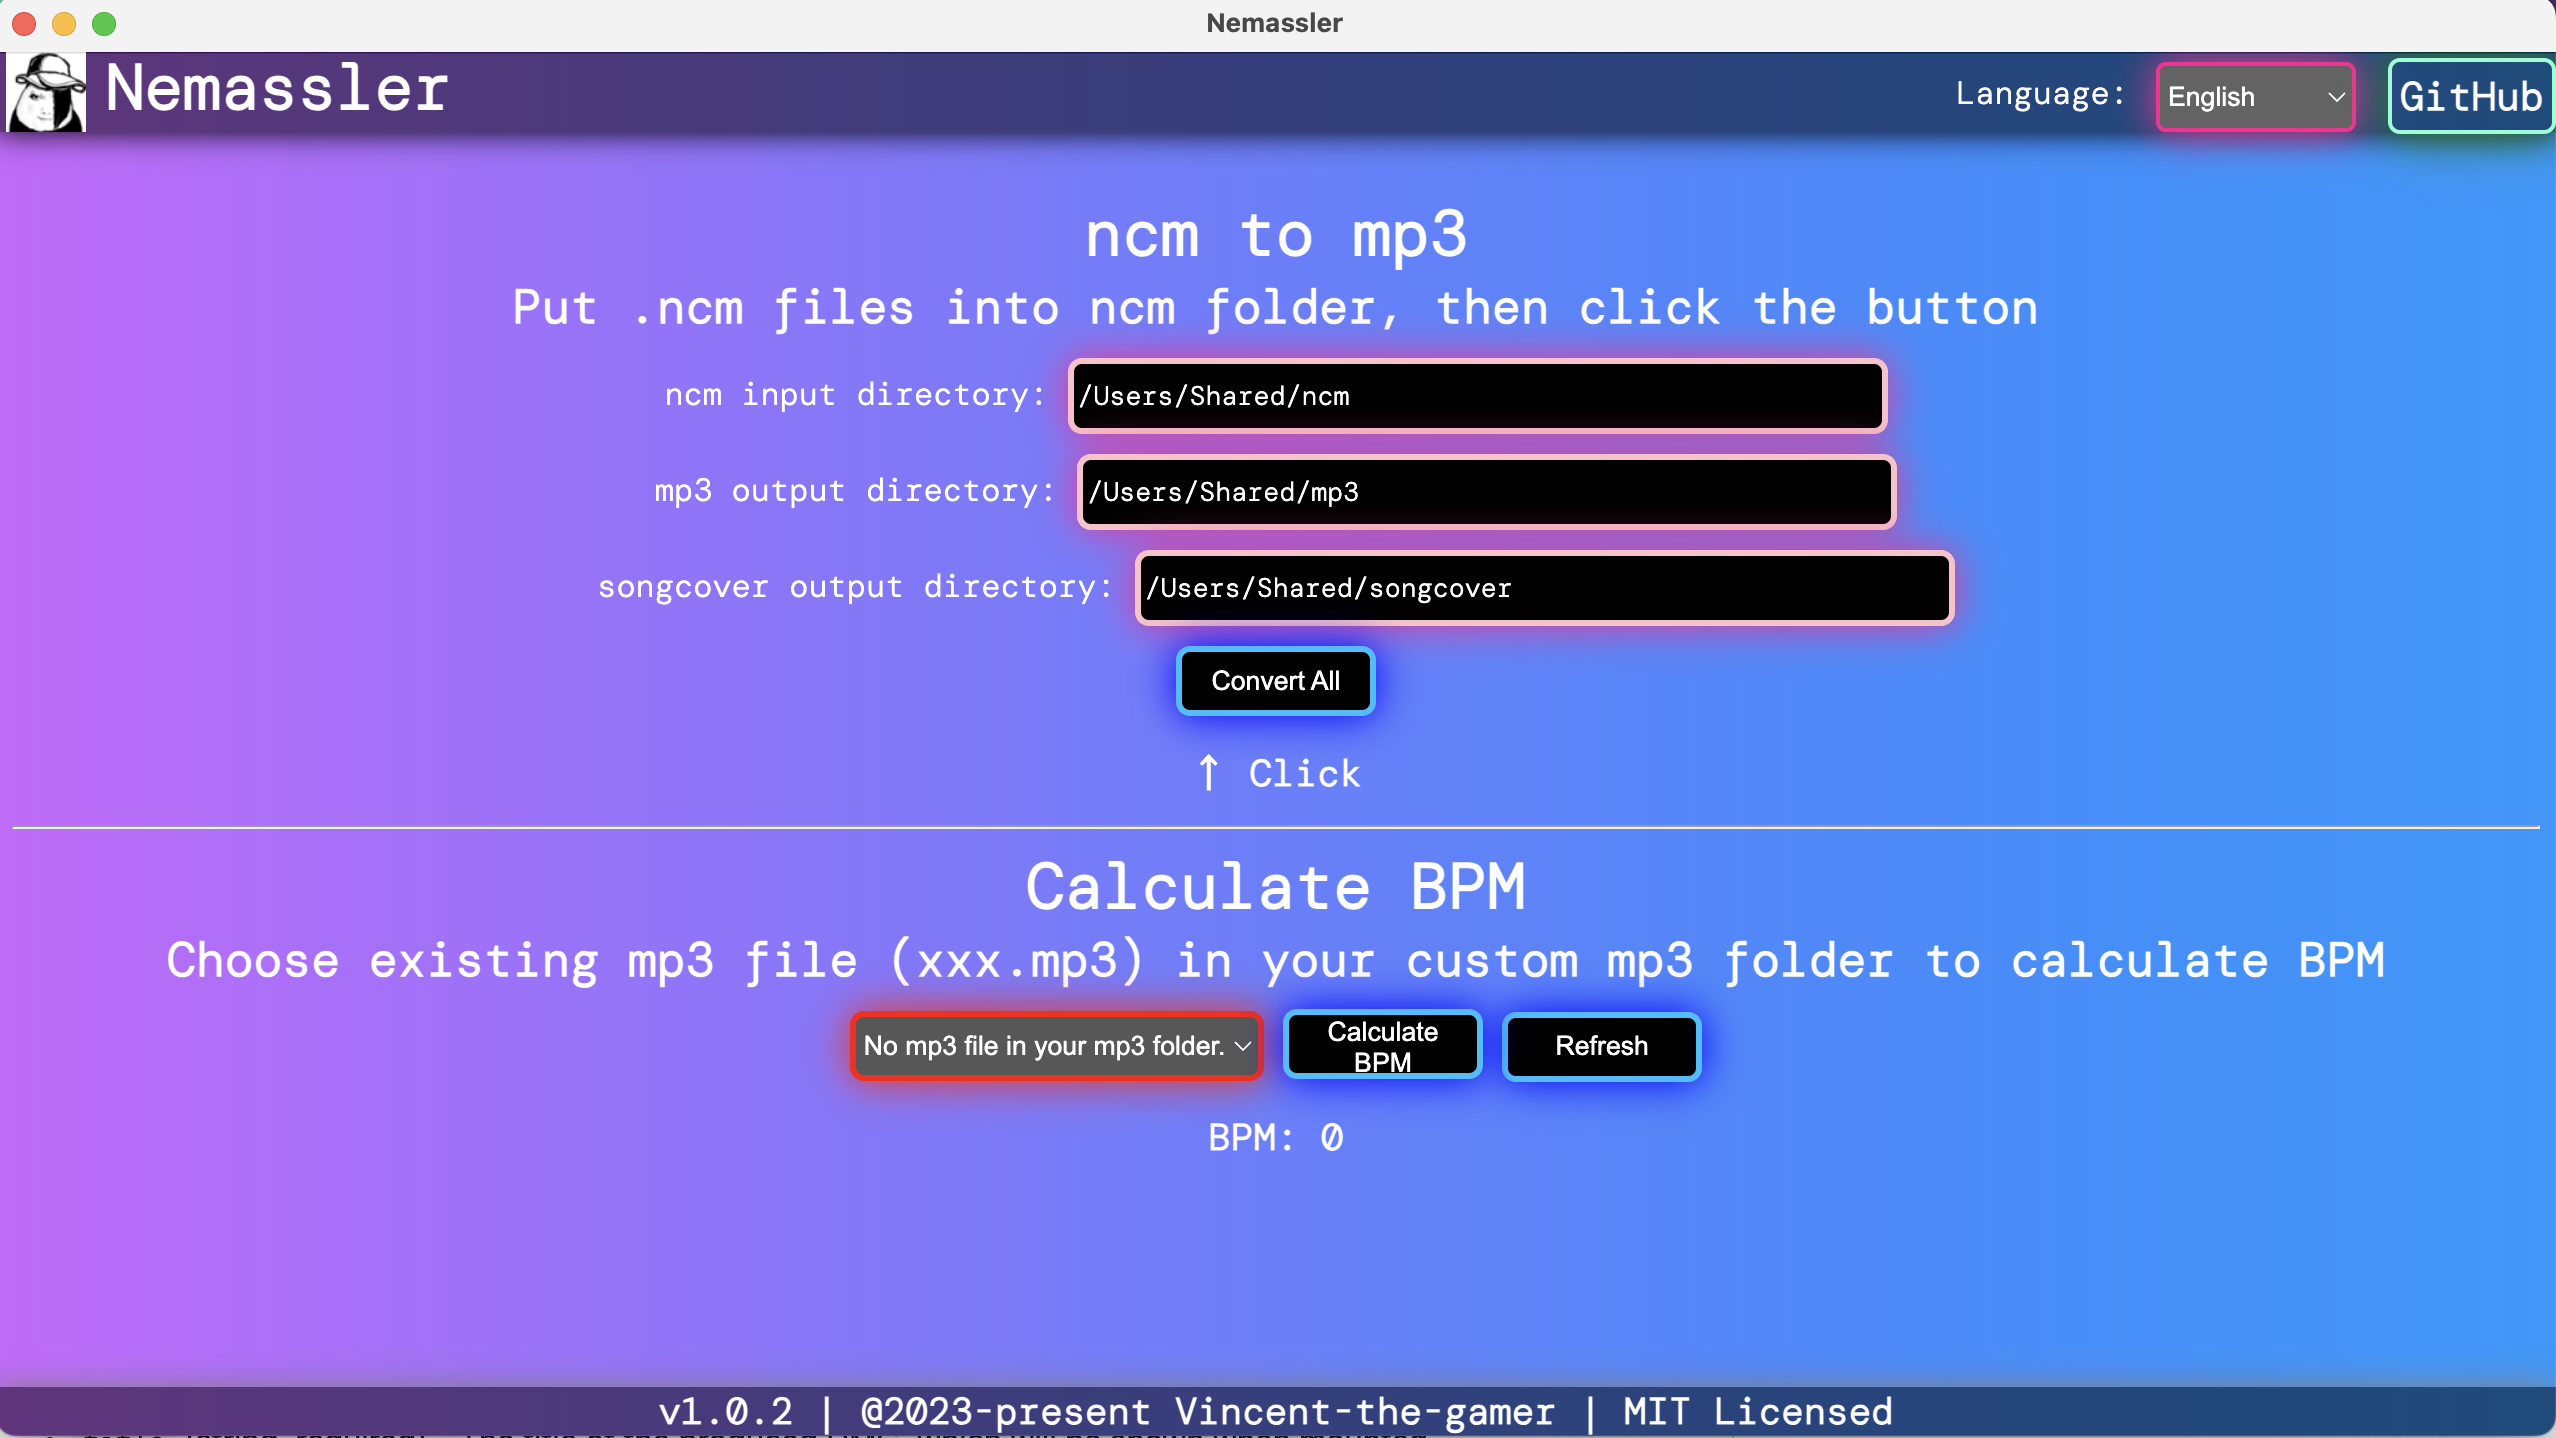
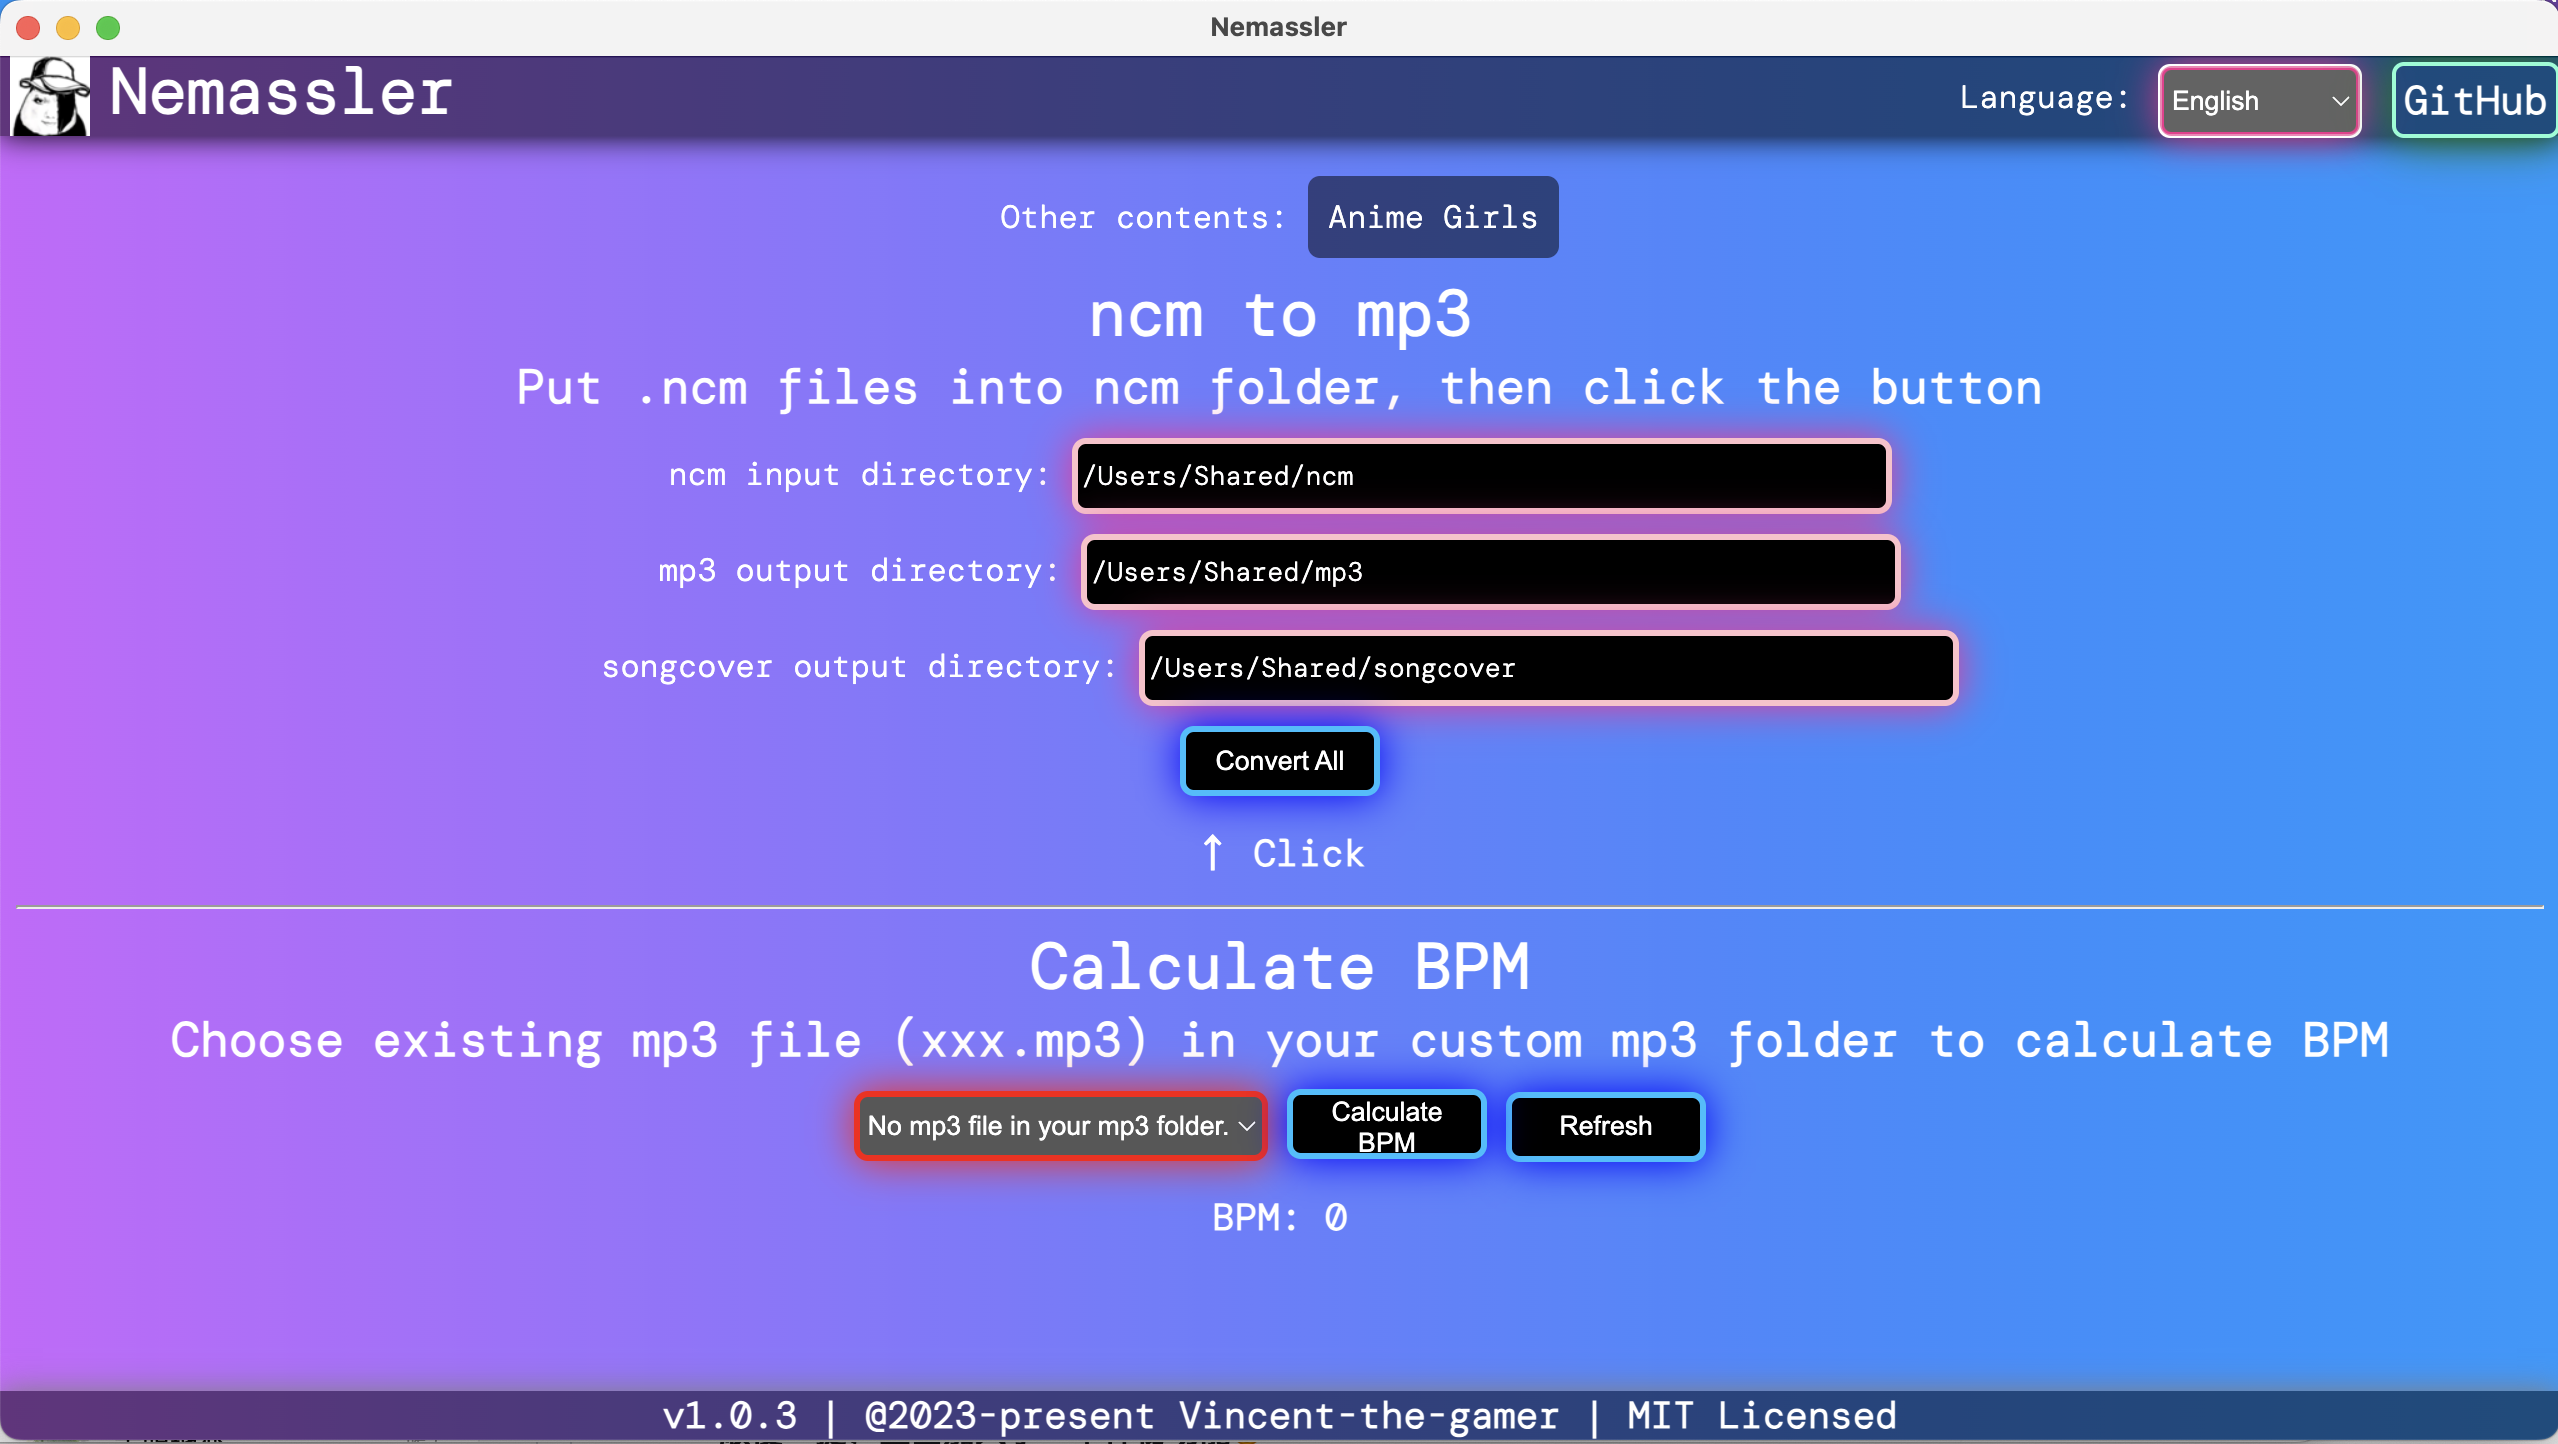
fix bug && chore: readme

diff --git a/frontend/src/pages/Meizi.svelte b/frontend/src/pages/Meizi.svelte
@@ -52,16 +52,18 @@
             </p>
             <p>
                 <button on:click={ getPictures }
-                        disabled={ !getButtonAvailable }>GIMME DA PICCHA!</button>
+                        disabled={ !getButtonAvailable }>GIMME DA PICCHA(s)!</button>
                 <button on:click={ () => picList = [] }>Clear Pic List</button>
             </p>
             <div class="pic-area">
                 <h3>Pic Show Area</h3>
                 <div class="pictures">
                     {#each picList as picture}
-                        <a href={picture.url} target="_blank" title={picture.title}>
-                            <img src={picture.url} alt={picture.title}/>
-                        </a>
+                        <!-- svelte-ignore a11y-click-events-have-key-events -->
+                        <!-- svelte-ignore a11y-no-noninteractive-element-interactions -->
+                        <img src={picture.url} alt={picture.title}
+                             title={picture.title} on:click={ useElectronHref(picture.url) }
+                        />
                     {/each}
                 </div>
             </div>
@@ -143,7 +145,7 @@
     
 
     button
-        width 100px
+        width fit-content
         height 35px
         margin 0 auto
         background-color black

diff --git a/README_ZH.md b/README_ZH.md
@@ -24,7 +24,7 @@
 ## 安装
 下载构建好的程序: 
 
-**最新版本: v1.0.2**
+**最新版本: v1.0.3**
 
 [https://github.com/Vincent-the-gamer/Nemassler/releases](https://github.com/Vincent-the-gamer/Nemassler/releases)
 
